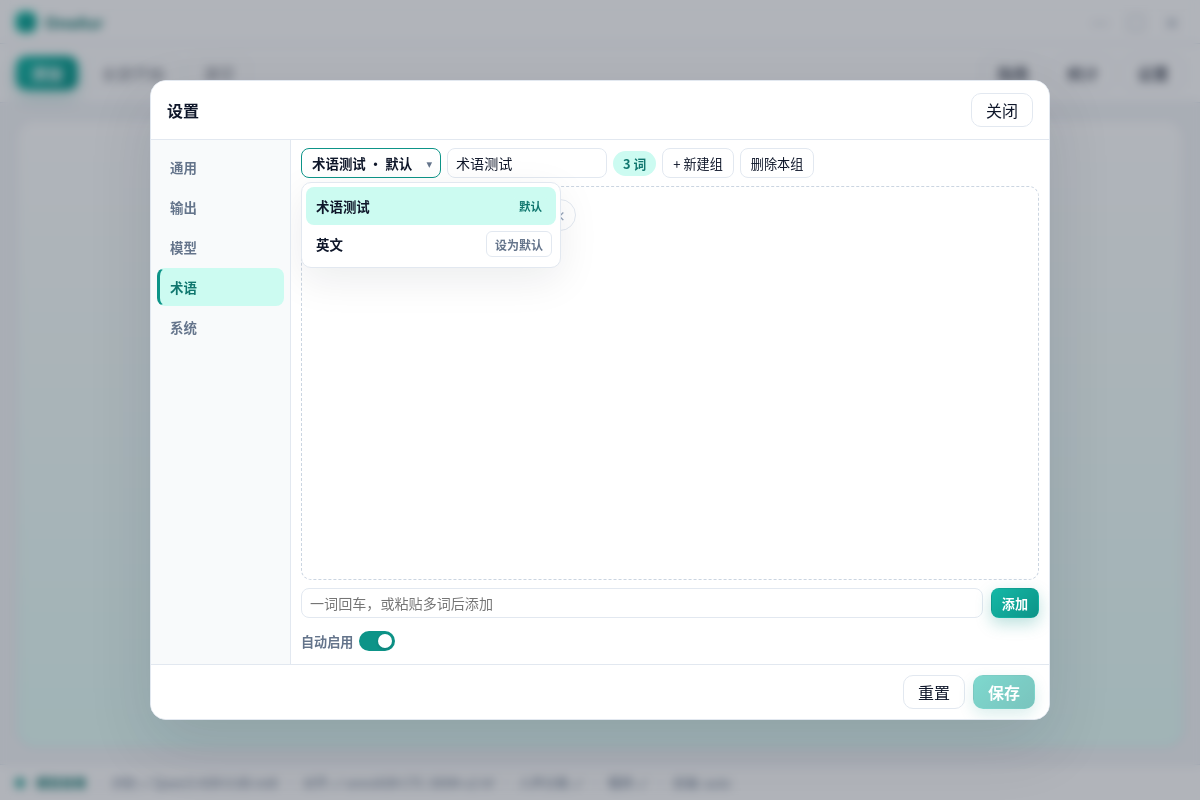
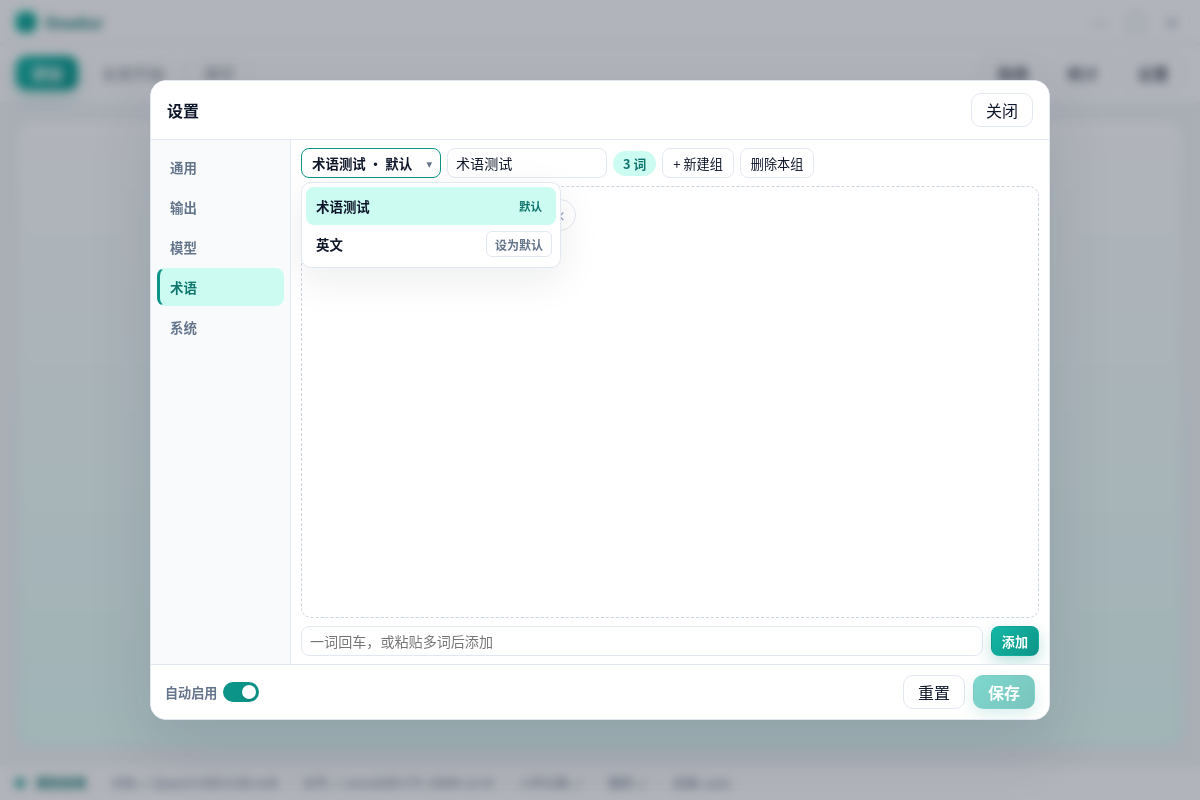
fix(electron): auto-enable in settings footer on hotwords tab
Show「自动启用」only on the shared modal footer when the hotwords tab
is active; remove the standalone row from the hotwords content pane.

Changed region(s): [[0.2467, 0.7188, 0.4317, 0.8125], [0.8017, 0.7188, 0.8633, 0.8438], [0.1233, 0.8438, 0.2158, 0.875]]

diff --git a/apps/electron/src/renderer/src/components/SettingsDrawer.tsx b/apps/electron/src/renderer/src/components/SettingsDrawer.tsx
@@ -466,6 +466,26 @@ export function SettingsDrawer({
         </div>
 
         <div className="modal-footer">
+          {activeTab === 'hotwords' && hotwordDraft ? (
+            <div className="hw-default-toggle" title={s.defaultGroup}>
+              <span className="pref-label">{s.defaultGroupShort}</span>
+              <button
+                type="button"
+                className={`toggle ${hotwordDraft.default_group_enabled ? 'on' : ''}`}
+                role="switch"
+                aria-checked={hotwordDraft.default_group_enabled}
+                aria-label={s.defaultGroup}
+                onClick={() =>
+                  onHotwordsChange({
+                    ...hotwordDraft,
+                    default_group_enabled: !hotwordDraft.default_group_enabled,
+                    default_group:
+                      hotwordDraft.default_group || hotwordDraft.groups[0]?.id || null
+                  })
+                }
+              />
+            </div>
+          ) : null}
           <span className="hint">{dirty ? s.unsaved : ''}</span>
           <button type="button" className="btn btn-ghost" onClick={onReset}>
             {s.reset}

diff --git a/apps/electron/src/renderer/src/components/HotwordPanel.tsx b/apps/electron/src/renderer/src/components/HotwordPanel.tsx
@@ -259,24 +259,6 @@ export function HotwordEditor({
             <span className="hw-add-feedback">+{lastAdded}</span>
           )}
         </div>
-        <div className="hw-default-toggle" title={s.defaultGroup}>
-          <span className="pref-label">{s.defaultGroupShort}</span>
-          <button
-            type="button"
-            className={`toggle ${value.default_group_enabled ? 'on' : ''}`}
-            role="switch"
-            aria-checked={value.default_group_enabled}
-            aria-label={s.defaultGroup}
-            disabled={!group}
-            onClick={() =>
-              touch({
-                ...value,
-                default_group_enabled: !value.default_group_enabled,
-                default_group: value.default_group || group?.id || null
-              })
-            }
-          />
-        </div>
       </div>
     </div>
   )
